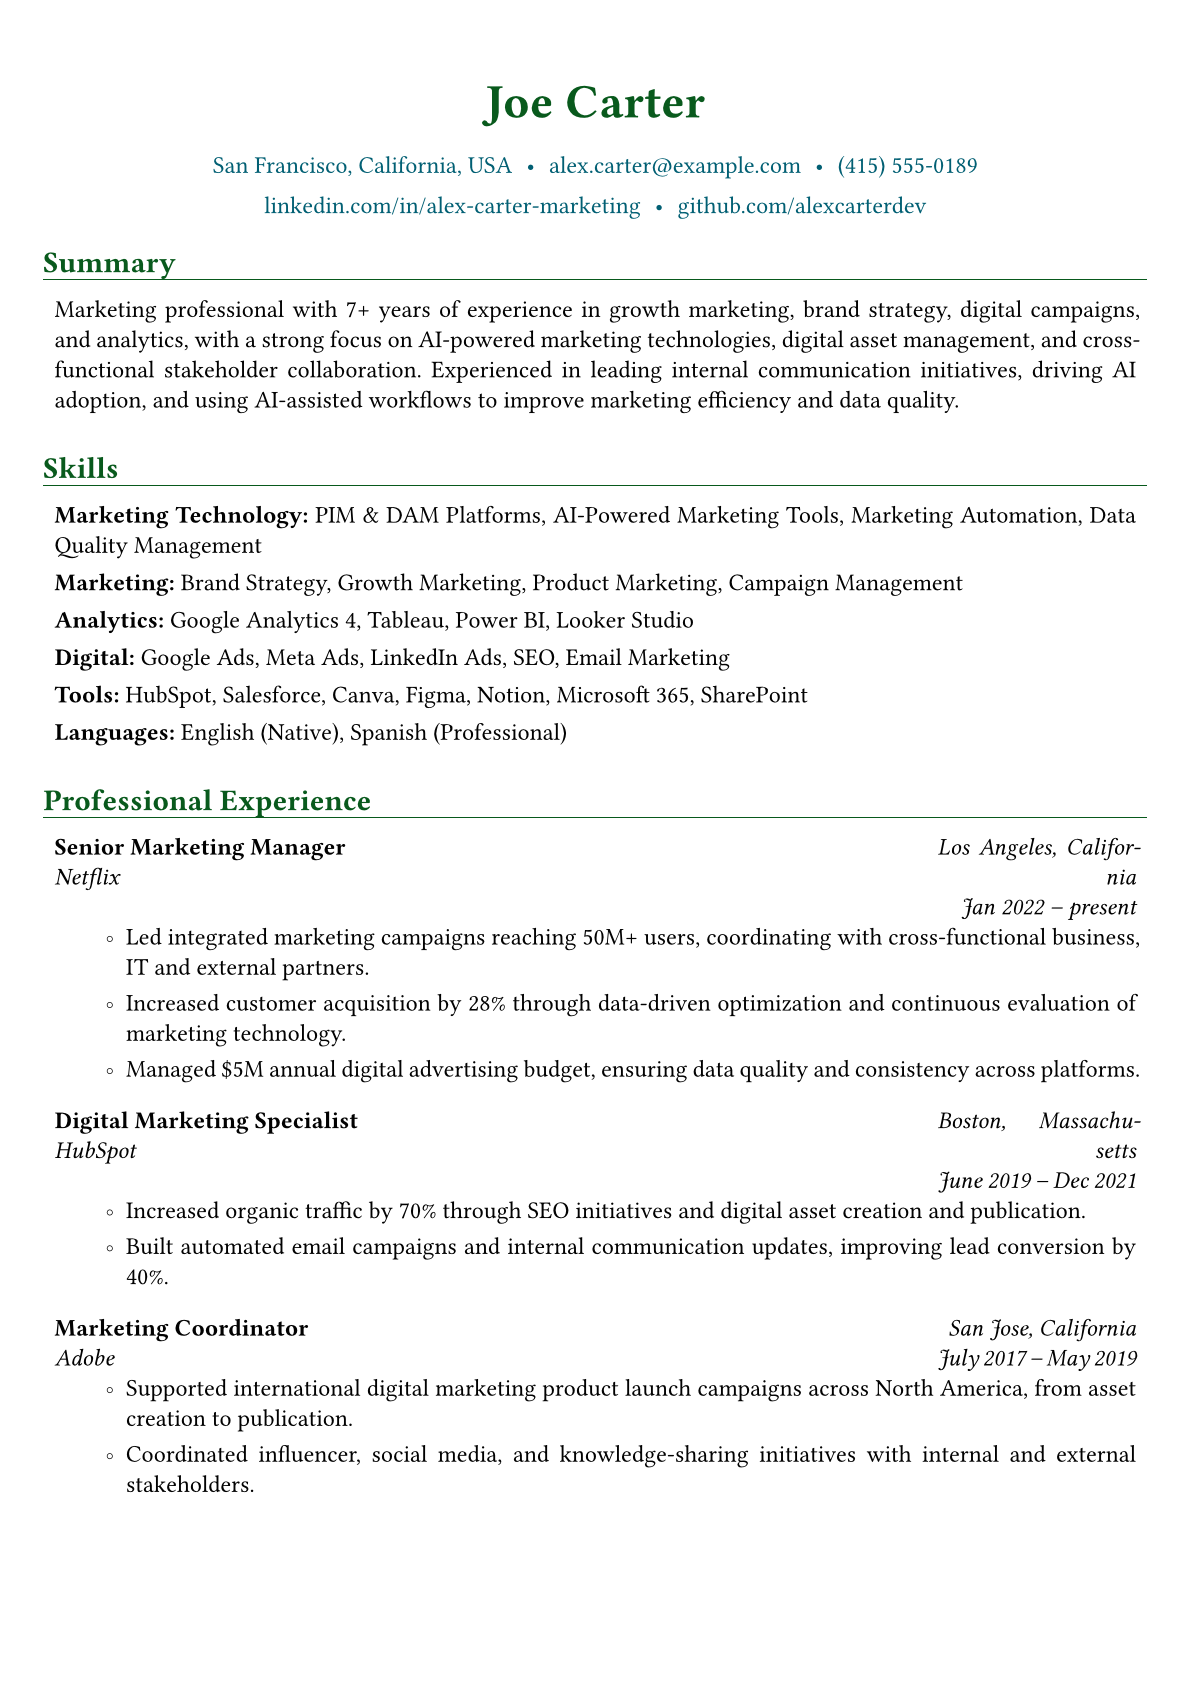
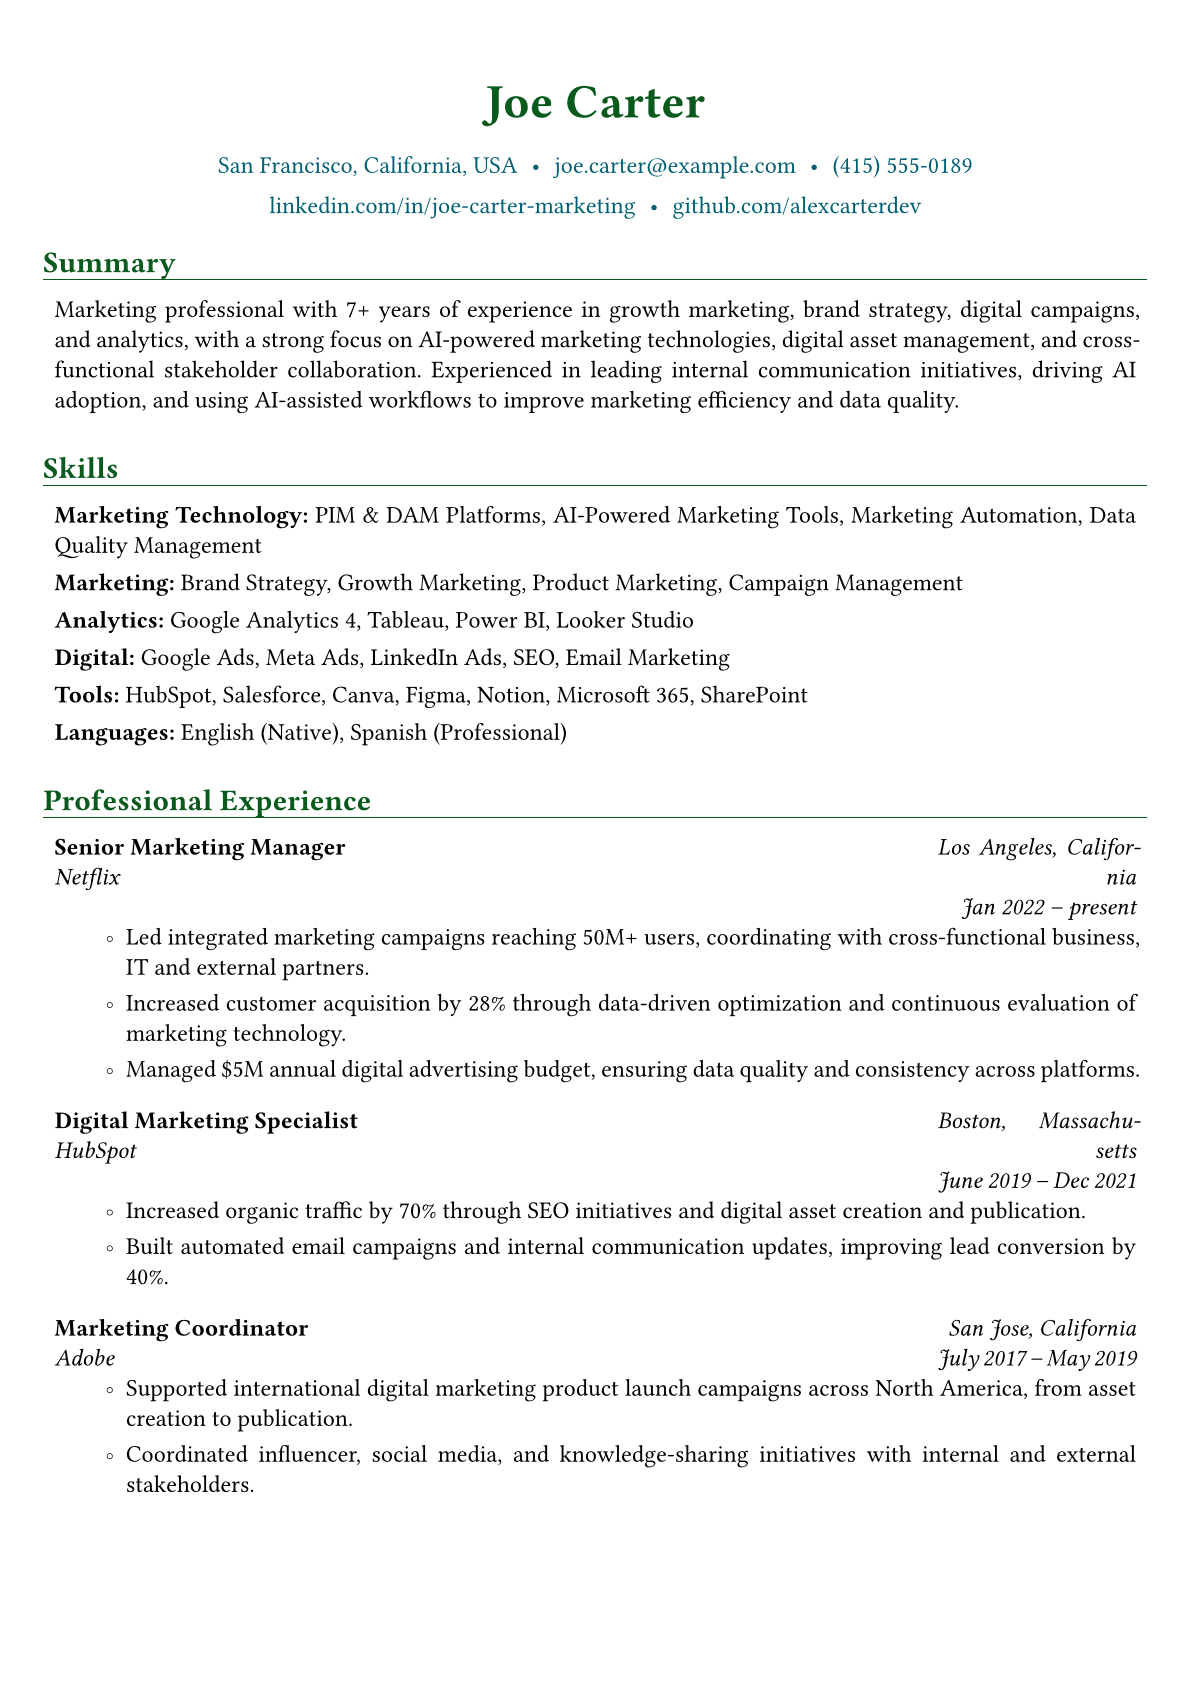
Auto-render CV PDF [skip ci]

Changed region(s): [[0.1864, 0.0926, 0.8077, 0.1235]]

diff --git a/rendercv_output/Joe_Carter_CV.html b/rendercv_output/Joe_Carter_CV.html
@@ -42,9 +42,9 @@
         <h1>Joe Carter's CV</h1>
         <ul>
         <li>Phone: +1 415 555 0189</li>
-        <li>Email: <a href="mailto:alex.carter@example.com">alex.carter@example.com</a></li>
+        <li>Email: <a href="mailto:joe.carter@example.com">joe.carter@example.com</a></li>
         <li>Location: San Francisco, California, USA</li>
-        <li>LinkedIn: <a href="https://linkedin.com/in/alex-carter-marketing">alex-carter-marketing</a></li>
+        <li>LinkedIn: <a href="https://linkedin.com/in/joe-carter-marketing">joe-carter-marketing</a></li>
         <li>GitHub: <a href="https://github.com/alexcarterdev">alexcarterdev</a></li>
         </ul>
         <h1>Summary</h1>

diff --git a/rendercv_output/Joe_Carter_CV.md b/rendercv_output/Joe_Carter_CV.md
@@ -1,9 +1,9 @@
 # Joe Carter's CV
 
 - Phone: +1 415 555 0189
-- Email: [alex.carter@example.com](mailto:alex.carter@example.com)
+- Email: [joe.carter@example.com](mailto:joe.carter@example.com)
 - Location: San Francisco, California, USA
-- LinkedIn: [alex-carter-marketing](https://linkedin.com/in/alex-carter-marketing)
+- LinkedIn: [joe-carter-marketing](https://linkedin.com/in/joe-carter-marketing)
 - GitHub: [alexcarterdev](https://github.com/alexcarterdev)
 
 
